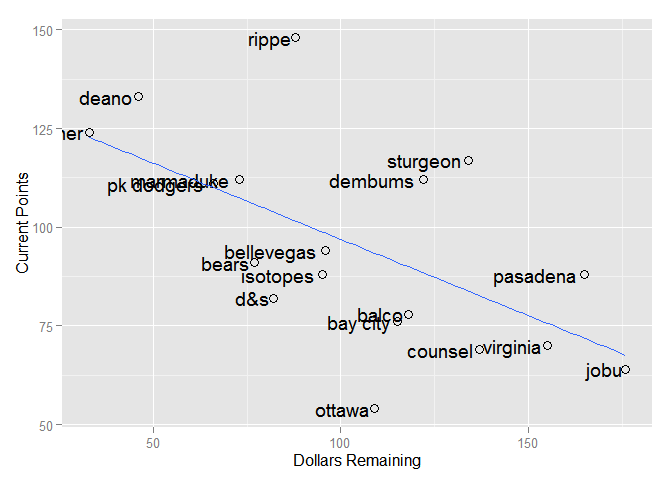
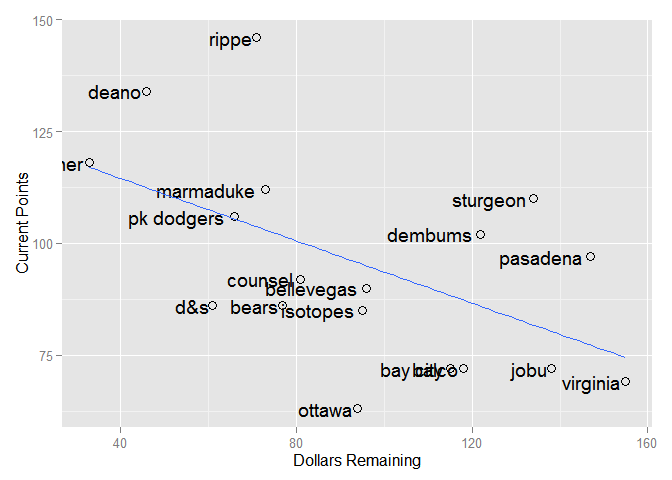
more draft picks

diff --git a/fantasy2015.html b/fantasy2015.html
@@ -70,72 +70,72 @@ img {
 <div id="current-stats" class="section level1">
 <h1>Current Stats</h1>
 <pre><code>##              R  HR RBI  SB   AVG  ERA WHIP K SV     W spent left
-## rippe      741 164 638 131 0.277 3.25 1.17 0 60  3.38   172   88
+## rippe      741 164 638 131 0.277 3.36 1.18 0 60  4.59   189   71
 ## deano      551 162 575  46 0.276 3.33 1.18 0 34  7.31   214   46
 ## deener     443 100 432  89 0.268 3.06 1.12 0 35  4.42   227   33
-## sturgeon   433 113 445  59 0.260 3.15 1.15 0 41  4.97   126  134
 ## marmaduke  714 192 674 114 0.260 3.81 1.25 0 30  6.65   187   73
-## dembums    466 135 463  66 0.279 3.53 1.17 0  0  4.70   138  122
+## sturgeon   433 113 445  59 0.260 3.15 1.15 0 41  4.97   126  134
 ## pk dodgers 489  99 426 122 0.256 3.51 1.20 0 30 11.02   194   66
+## dembums    466 135 463  66 0.279 3.53 1.17 0  0  4.70   138  122
+## pasadena   498 152 520  81 0.257 3.66 1.24 0  0  4.94   113  147
+## counsel    510 136 487  70 0.264 3.95 1.27 0  0  6.70   179   81
 ## bellevegas 405 131 435  53 0.260 3.76 1.24 0 33  8.53   164   96
+## d&amp;s        280  62 267  45 0.266 3.32 1.17 0  9  9.55   199   61
 ## bears      418 126 418  55 0.255 3.65 1.22 0 33  7.26   183   77
 ## isotopes   358  94 354  56 0.271 3.78 1.27 0 31 10.51   165   95
-## pasadena   422 133 443  74 0.253 3.66 1.24 0  0  4.94    95  165
-## d&amp;s        225  52 209  28 0.267 3.32 1.17 0  9  9.55   178   82
-## balco      495 118 480  69 0.265 4.19 1.32 0  0  1.32   142  118
+## jobu       279  38 219  67 0.265 4.14 1.30 0 34 10.61   122  138
 ## bay city   339  97 362  38 0.261 3.72 1.24 0 25  7.54   145  115
+## balco      495 118 480  69 0.265 4.19 1.32 0  0  1.32   142  118
 ## virginia   130  25 114  16 0.273 3.38 1.18 0 31  4.64   105  155
-## counsel    365  83 326  65 0.268 3.95 1.27 0  0  6.70   123  137
-## jobu       213  28 163  40 0.265 4.14 1.30 0 34 10.61    84  176
-## ottawa     328  89 324  77 0.260 3.99 1.26 0  0  3.83   151  109</code></pre>
+## ottawa     328  89 324  77 0.260 3.89 1.25 0 29  5.01   166   94</code></pre>
 </div>
 <div id="hitting-points" class="section level1">
 <h1>Hitting Points</h1>
 <pre><code>##            R_pts HR_pts RBI_pts SB_pts AVG_pts total_points
-## rippe         18     17      17     18    17.0          148
-## deano         16     16      16      5    16.0          133
-## deener        12      9      10     15    12.5          124
-## sturgeon      11     10      13      9     5.5          117
+## rippe         18     17      17     18    17.0          146
+## deano         16     16      16      4    16.0          134
+## deener        10      8       9     15    13.0          118
 ## marmaduke     17     18      18     16     5.5          112
-## dembums       13     15      14     11    18.0          112
-## pk dodgers    14      8       9     17     3.0          111
-## bellevegas     8     13      11      6     5.5           94
-## bears          9     12       8      7     2.0           91
-## isotopes       6      6       6      8    14.0           88
-## pasadena      10     14      12     13     1.0           88
-## d&amp;s            3      3       3      2    11.0           82
-## balco         15     11      15     12     9.5           78
-## bay city       5      7       7      3     8.0           76
-## virginia       1      1       1      1    15.0           70
-## counsel        7      4       5     10    12.5           69
-## jobu           2      2       2      4     9.5           64
-## ottawa         4      5       4     14     5.5           54</code></pre>
+## sturgeon       9      9      11      8     5.5          110
+## pk dodgers    12      7       8     17     2.0          106
+## dembums       11     13      12      9    18.0          102
+## pasadena      14     15      15     14     3.0           97
+## counsel       15     14      14     12     9.0           92
+## bellevegas     7     12      10      5     5.5           90
+## d&amp;s            3      3       3      3    12.0           86
+## bears          8     11       7      6     1.0           86
+## isotopes       6      5       5      7    14.0           85
+## jobu           2      2       2     10    10.5           72
+## bay city       5      6       6      2     8.0           72
+## balco         13     10      13     11    10.5           72
+## virginia       1      1       1      1    15.0           69
+## ottawa         4      4       4     13     5.5           63</code></pre>
 </div>
 <div id="pitching-points" class="section level1">
 <h1>Pitching Points</h1>
 <pre><code>##            ERA_pts WHIP_pts K_pts SV_pts W_pts total_points
-## rippe           16       16   9.5   18.0     2          148
-## deano           14       14   9.5   14.5    12          133
-## deener          18       18   9.5   16.0     4          124
-## sturgeon        17       17   9.5   17.0     8          117
+## rippe           14       14   9.5   18.0     3          146
+## deano           15       15   9.5   14.5    12          134
+## deener          18       18   9.5   16.0     2          118
 ## marmaduke        5        5   9.5    8.5     9          112
-## dembums         11       11   9.5    3.0     6          112
-## pk dodgers      12       12   9.5    8.5    18          111
-## bellevegas       7        7   9.5   12.5    14           94
-## bears           10       10   9.5   12.5    11           91
-## isotopes         6        6   9.5   10.5    16           88
-## pasadena         9        9   9.5    3.0     7           88
-## d&amp;s             15       15   9.5    6.0    15           82
-## balco            1        1   9.5    3.0     1           78
-## bay city         8        8   9.5    7.0    13           76
-## virginia        13       13   9.5   10.5     5           70
-## counsel          4        4   9.5    3.0    10           69
-## jobu             2        2   9.5   14.5    17           64
-## ottawa           3        3   9.5    3.0     3           54</code></pre>
+## sturgeon        17       17   9.5   17.0     7          110
+## pk dodgers      12       12   9.5    8.5    18          106
+## dembums         11       11   9.5    2.5     5          102
+## pasadena         9        9   9.5    2.5     6           97
+## counsel          3        3   9.5    2.5    10           92
+## bellevegas       7        7   9.5   12.5    14           90
+## d&amp;s             16       16   9.5    5.0    15           86
+## bears           10       10   9.5   12.5    11           86
+## isotopes         6        6   9.5   10.5    16           85
+## jobu             2        2   9.5   14.5    17           72
+## bay city         8        8   9.5    6.0    13           72
+## balco            1        1   9.5    2.5     1           72
+## virginia        13       13   9.5   10.5     4           69
+## ottawa           4        4   9.5    7.0     8           63</code></pre>
 </div>
 <div id="scatter-of-remaining-dollars-vs.current-points" class="section level1">
 <h1>Scatter of Remaining Dollars vs. Current Points</h1>
[2 lines of base64/hex data omitted]
 </div>
 
 

diff --git a/fantasy2015.md b/fantasy2015.md
@@ -10,72 +10,72 @@ Monday, January 19, 2015
 
 ```
 ##              R  HR RBI  SB   AVG  ERA WHIP K SV     W spent left
-## rippe      741 164 638 131 0.277 3.25 1.17 0 60  3.38   172   88
+## rippe      741 164 638 131 0.277 3.36 1.18 0 60  4.59   189   71
 ## deano      551 162 575  46 0.276 3.33 1.18 0 34  7.31   214   46
 ## deener     443 100 432  89 0.268 3.06 1.12 0 35  4.42   227   33
-## sturgeon   433 113 445  59 0.260 3.15 1.15 0 41  4.97   126  134
 ## marmaduke  714 192 674 114 0.260 3.81 1.25 0 30  6.65   187   73
-## dembums    466 135 463  66 0.279 3.53 1.17 0  0  4.70   138  122
+## sturgeon   433 113 445  59 0.260 3.15 1.15 0 41  4.97   126  134
 ## pk dodgers 489  99 426 122 0.256 3.51 1.20 0 30 11.02   194   66
+## dembums    466 135 463  66 0.279 3.53 1.17 0  0  4.70   138  122
+## pasadena   498 152 520  81 0.257 3.66 1.24 0  0  4.94   113  147
+## counsel    510 136 487  70 0.264 3.95 1.27 0  0  6.70   179   81
 ## bellevegas 405 131 435  53 0.260 3.76 1.24 0 33  8.53   164   96
+## d&s        280  62 267  45 0.266 3.32 1.17 0  9  9.55   199   61
 ## bears      418 126 418  55 0.255 3.65 1.22 0 33  7.26   183   77
 ## isotopes   358  94 354  56 0.271 3.78 1.27 0 31 10.51   165   95
-## pasadena   422 133 443  74 0.253 3.66 1.24 0  0  4.94    95  165
-## d&s        225  52 209  28 0.267 3.32 1.17 0  9  9.55   178   82
-## balco      495 118 480  69 0.265 4.19 1.32 0  0  1.32   142  118
+## jobu       279  38 219  67 0.265 4.14 1.30 0 34 10.61   122  138
 ## bay city   339  97 362  38 0.261 3.72 1.24 0 25  7.54   145  115
+## balco      495 118 480  69 0.265 4.19 1.32 0  0  1.32   142  118
 ## virginia   130  25 114  16 0.273 3.38 1.18 0 31  4.64   105  155
-## counsel    365  83 326  65 0.268 3.95 1.27 0  0  6.70   123  137
-## jobu       213  28 163  40 0.265 4.14 1.30 0 34 10.61    84  176
-## ottawa     328  89 324  77 0.260 3.99 1.26 0  0  3.83   151  109
+## ottawa     328  89 324  77 0.260 3.89 1.25 0 29  5.01   166   94
 ```
 
 #Hitting Points
 
 ```
 ##            R_pts HR_pts RBI_pts SB_pts AVG_pts total_points
-## rippe         18     17      17     18    17.0          148
-## deano         16     16      16      5    16.0          133
-## deener        12      9      10     15    12.5          124
-## sturgeon      11     10      13      9     5.5          117
+## rippe         18     17      17     18    17.0          146
+## deano         16     16      16      4    16.0          134
+## deener        10      8       9     15    13.0          118
 ## marmaduke     17     18      18     16     5.5          112
-## dembums       13     15      14     11    18.0          112
-## pk dodgers    14      8       9     17     3.0          111
-## bellevegas     8     13      11      6     5.5           94
-## bears          9     12       8      7     2.0           91
-## isotopes       6      6       6      8    14.0           88
-## pasadena      10     14      12     13     1.0           88
-## d&s            3      3       3      2    11.0           82
-## balco         15     11      15     12     9.5           78
-## bay city       5      7       7      3     8.0           76
-## virginia       1      1       1      1    15.0           70
-## counsel        7      4       5     10    12.5           69
-## jobu           2      2       2      4     9.5           64
-## ottawa         4      5       4     14     5.5           54
+## sturgeon       9      9      11      8     5.5          110
+## pk dodgers    12      7       8     17     2.0          106
+## dembums       11     13      12      9    18.0          102
+## pasadena      14     15      15     14     3.0           97
+## counsel       15     14      14     12     9.0           92
+## bellevegas     7     12      10      5     5.5           90
+## d&s            3      3       3      3    12.0           86
+## bears          8     11       7      6     1.0           86
+## isotopes       6      5       5      7    14.0           85
+## jobu           2      2       2     10    10.5           72
+## bay city       5      6       6      2     8.0           72
+## balco         13     10      13     11    10.5           72
+## virginia       1      1       1      1    15.0           69
+## ottawa         4      4       4     13     5.5           63
 ```
 
 #Pitching Points
 
 ```
 ##            ERA_pts WHIP_pts K_pts SV_pts W_pts total_points
-## rippe           16       16   9.5   18.0     2          148
-## deano           14       14   9.5   14.5    12          133
-## deener          18       18   9.5   16.0     4          124
-## sturgeon        17       17   9.5   17.0     8          117
+## rippe           14       14   9.5   18.0     3          146
+## deano           15       15   9.5   14.5    12          134
+## deener          18       18   9.5   16.0     2          118
 ## marmaduke        5        5   9.5    8.5     9          112
-## dembums         11       11   9.5    3.0     6          112
-## pk dodgers      12       12   9.5    8.5    18          111
-## bellevegas       7        7   9.5   12.5    14           94
-## bears           10       10   9.5   12.5    11           91
-## isotopes         6        6   9.5   10.5    16           88
-## pasadena         9        9   9.5    3.0     7           88
-## d&s             15       15   9.5    6.0    15           82
-## balco            1        1   9.5    3.0     1           78
-## bay city         8        8   9.5    7.0    13           76
-## virginia        13       13   9.5   10.5     5           70
-## counsel          4        4   9.5    3.0    10           69
-## jobu             2        2   9.5   14.5    17           64
-## ottawa           3        3   9.5    3.0     3           54
+## sturgeon        17       17   9.5   17.0     7          110
+## pk dodgers      12       12   9.5    8.5    18          106
+## dembums         11       11   9.5    2.5     5          102
+## pasadena         9        9   9.5    2.5     6           97
+## counsel          3        3   9.5    2.5    10           92
+## bellevegas       7        7   9.5   12.5    14           90
+## d&s             16       16   9.5    5.0    15           86
+## bears           10       10   9.5   12.5    11           86
+## isotopes         6        6   9.5   10.5    16           85
+## jobu             2        2   9.5   14.5    17           72
+## bay city         8        8   9.5    6.0    13           72
+## balco            1        1   9.5    2.5     1           72
+## virginia        13       13   9.5   10.5     4           69
+## ottawa           4        4   9.5    7.0     8           63
 ```
 
 #Scatter of Remaining Dollars vs. Current Points
